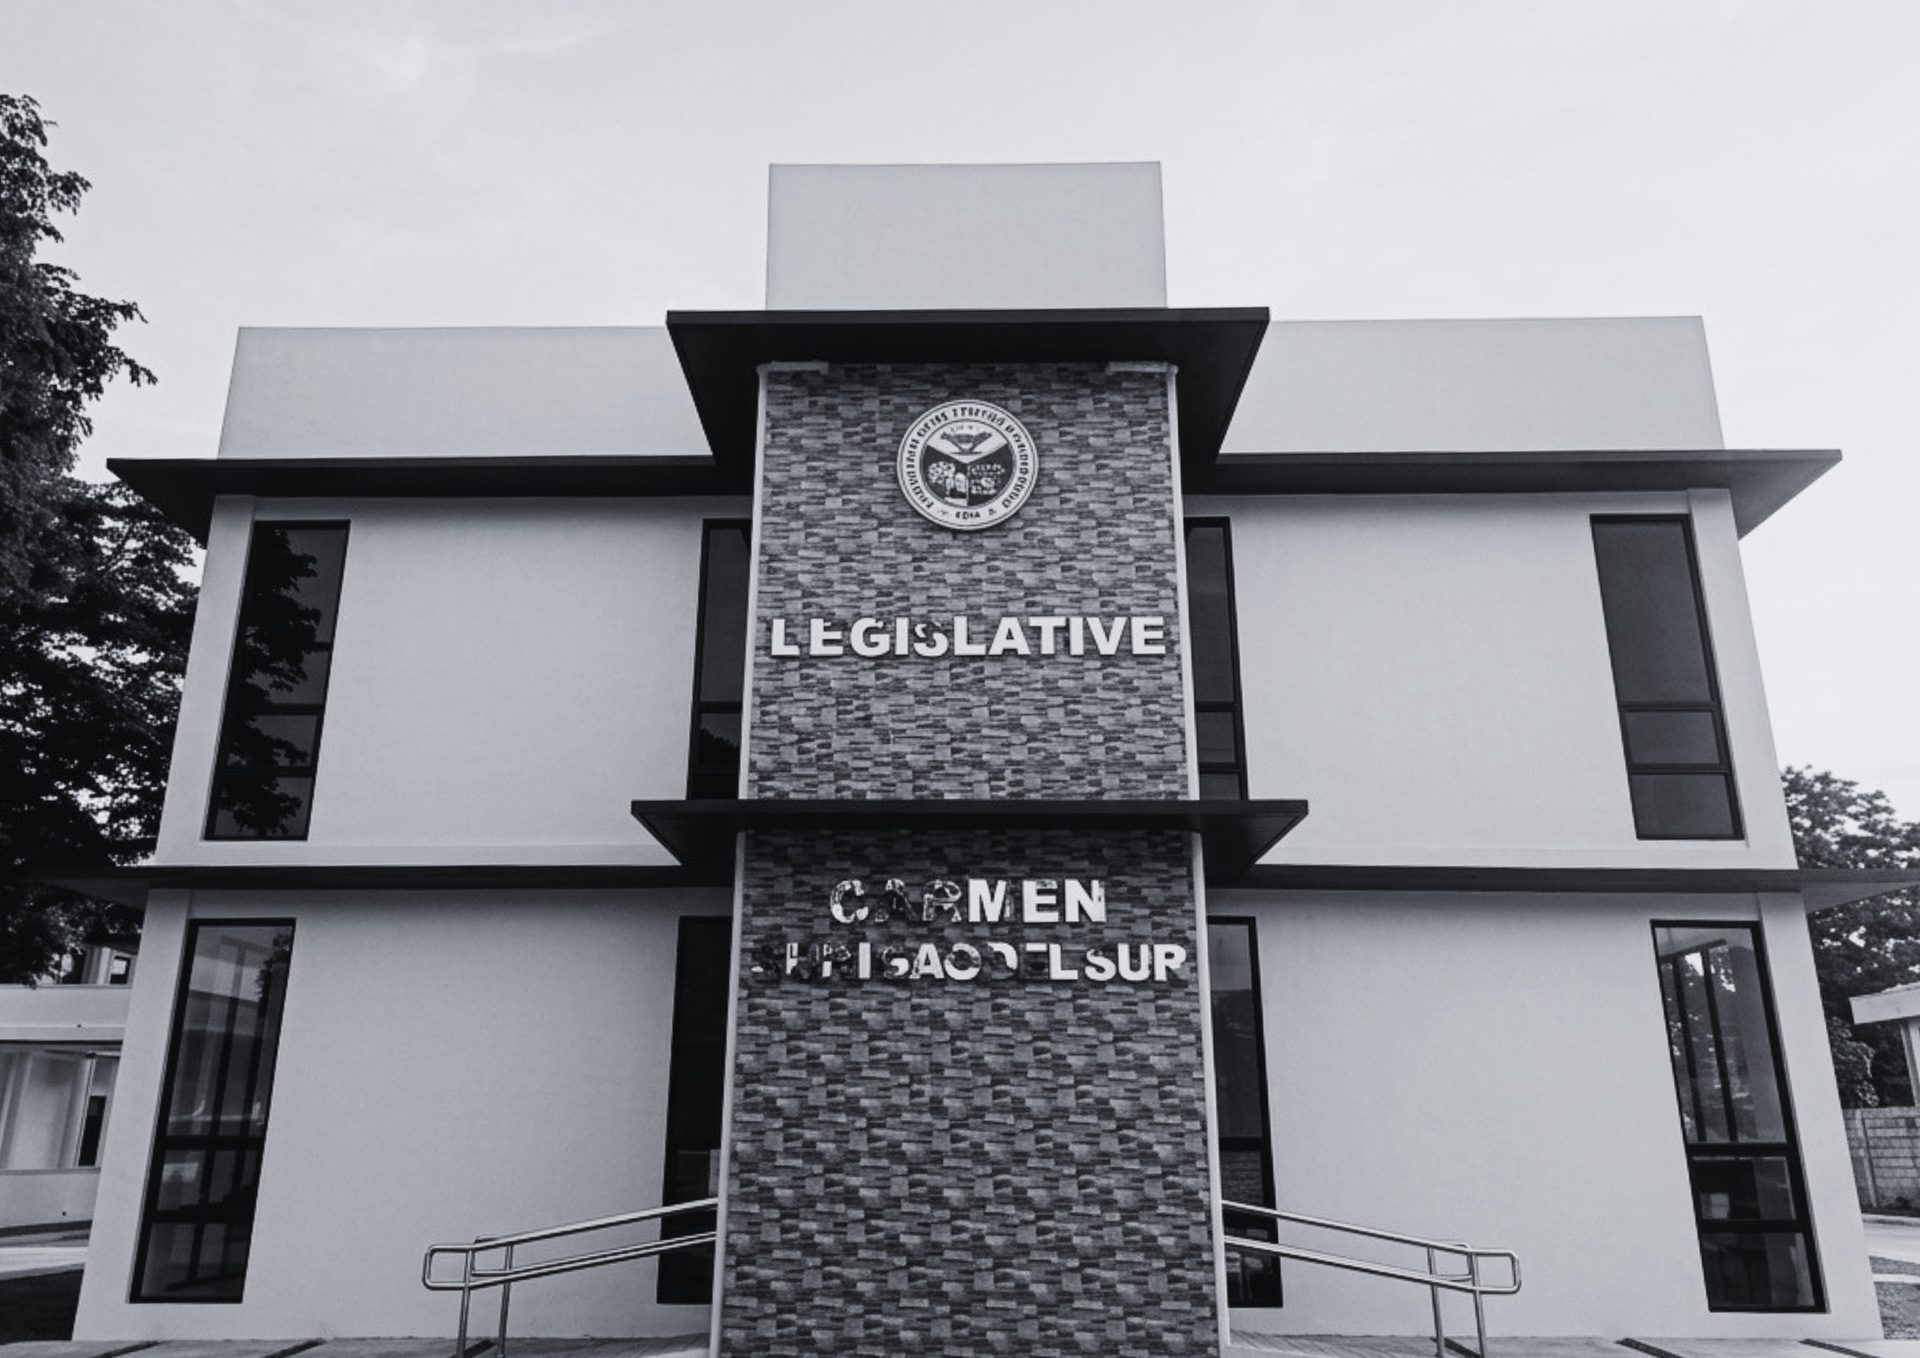
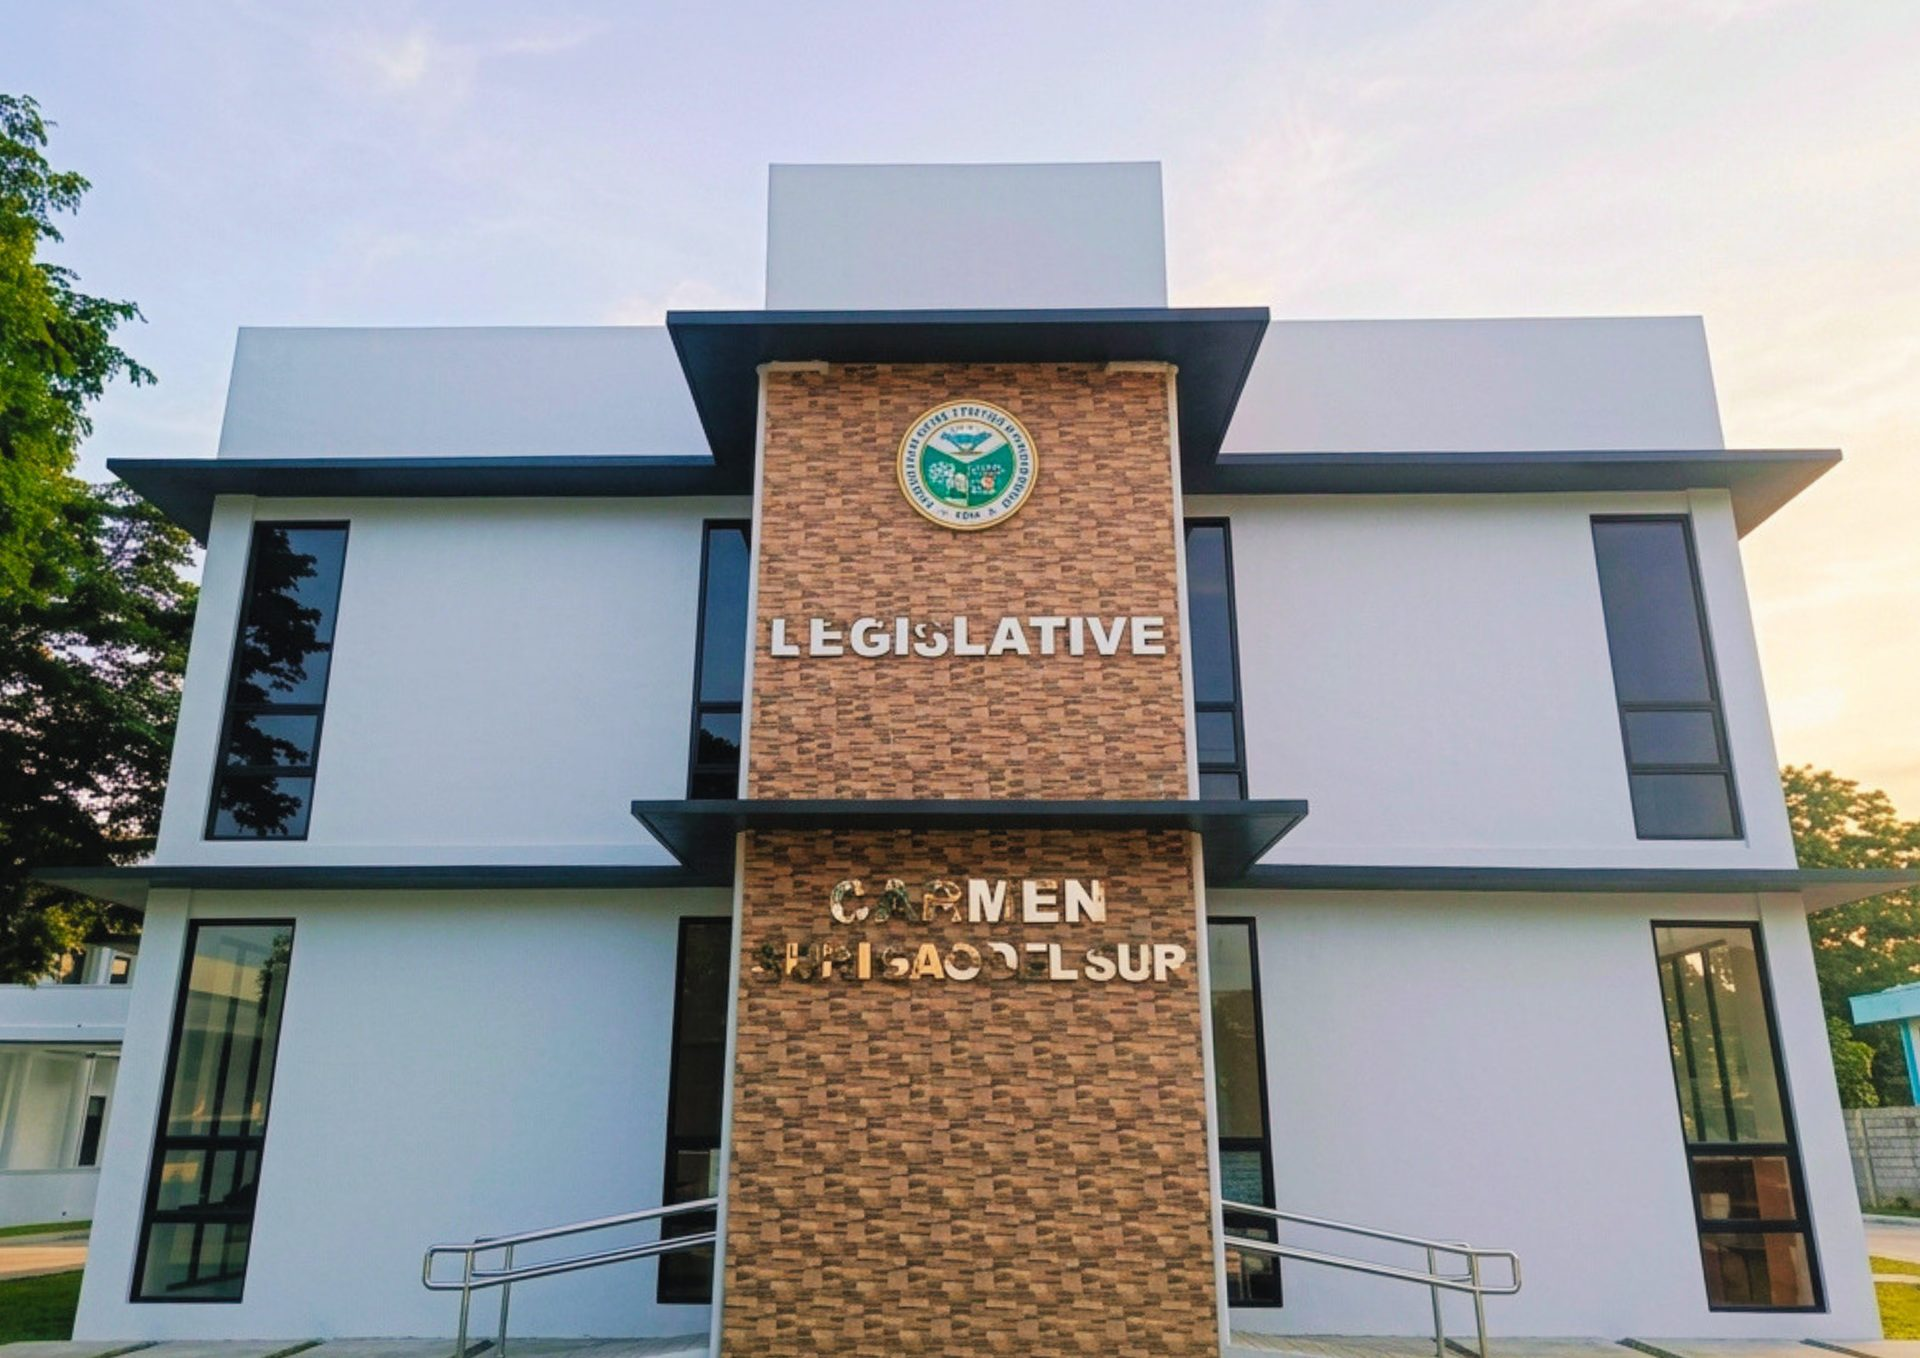
Split hero and about-section photos into separate images
Hero (.hero, .page-hero) now uses session.jpg; the About the
Sanggunian split-media section keeps sbhall2.jpg. Both uploaded
PNGs were resized to 1920px wide and re-encoded as JPEG to keep
page weight low.

diff --git a/assets/css/style.css b/assets/css/style.css
@@ -161,7 +161,7 @@ p { margin: 0 0 1em; }
   display: flex;
   align-items: center;
   background: linear-gradient(120deg, rgba(15,22,18,.72), rgba(15,22,18,.55)),
-              url('../img/sbhall2.jpg') center / cover no-repeat;
+              url('../img/session.jpg') center / cover no-repeat;
   color: var(--white);
   overflow: hidden;
 }
@@ -183,7 +183,7 @@ p { margin: 0 0 1em; }
 /* Page (inner) hero */
 .page-hero {
   background: linear-gradient(120deg, rgba(15,22,18,.82), rgba(15,22,18,.72)),
-              url('../img/sbhall2.jpg') center / cover no-repeat;
+              url('../img/session.jpg') center / cover no-repeat;
   color: var(--white);
   padding: 90px 0 50px;
   text-align: center;